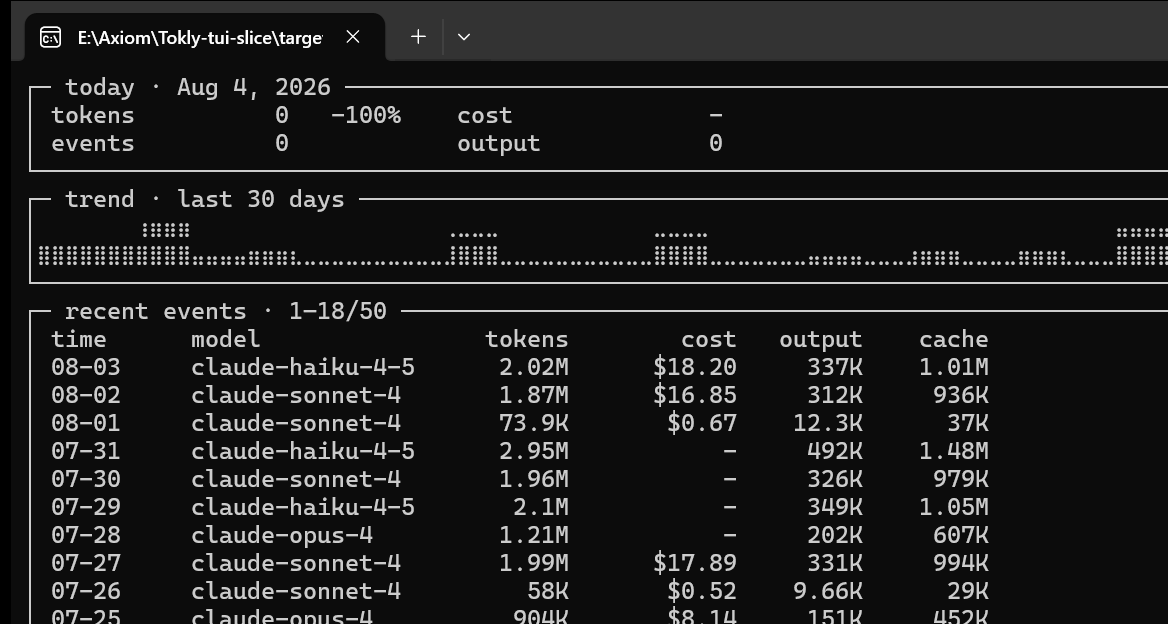
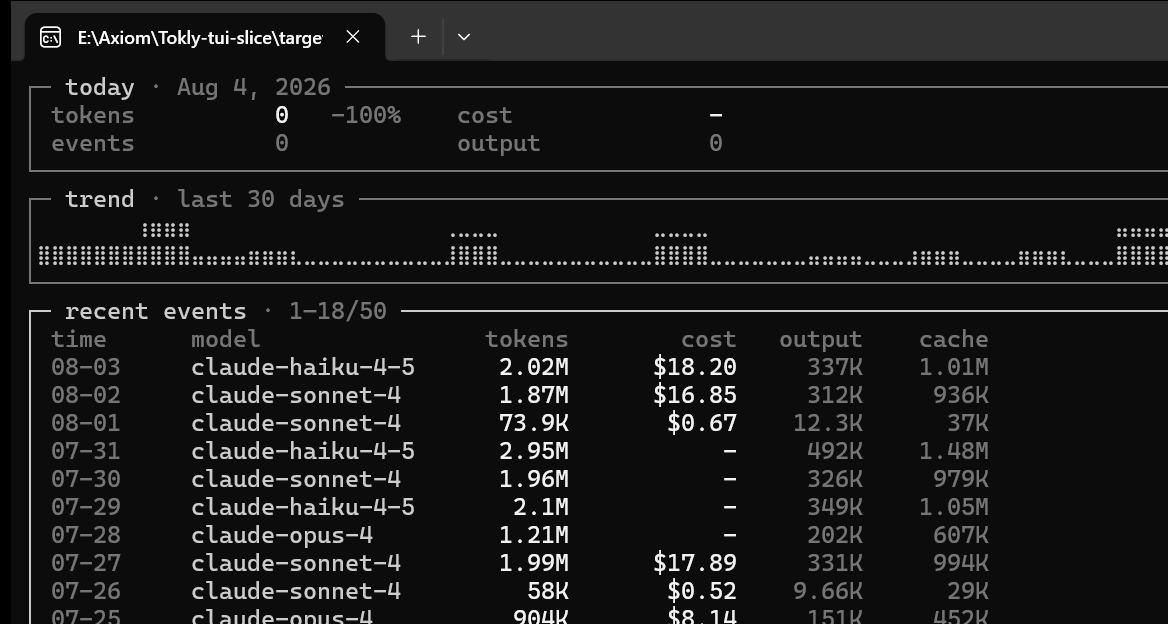
docs: record data gate signoff; M1 unlocked

diff --git a/docs/reports/assets/九/index.html b/docs/reports/assets/九/index.html
@@ -1,0 +1,59 @@
+<!doctype html>
+<html lang="zh-CN">
+<head>
+<meta charset="utf-8">
+<title>阶段九 · TUI 可视化交付物</title>
+<style>
+  body { font-family: ui-monospace, Consolas, monospace; background: #120F0C; color: #EDE6E3; margin: 24px; }
+  h1 { font-size: 16px; } h2 { font-size: 14px; color: #B2ADA9; margin-top: 32px; }
+  p { color: #8A8582; font-size: 13px; max-width: 72em; }
+  .grid { display: grid; grid-template-columns: repeat(auto-fill, minmax(420px, 1fr)); gap: 12px; }
+  figure { margin: 0; border: 1px solid #282522; padding: 8px; }
+  figcaption { font-size: 12px; color: #8A8582; padding: 6px 2px 2px; }
+  img, object { width: 100%; height: auto; display: block; background: #120F0C; }
+  a { color: #E0985A; }
+</style>
+</head>
+<body>
+<h1>阶段九 · TUI 可视化交付物</h1>
+<p>双击本文件即可离线查看。SVG 为 TestBackend 真实渲染缓冲的逐格序列化（字形与各档色值即终端所收内容）；
+conpty/*.png 为 Windows Terminal（ConPTY）真机窗口捕获。三档真机像素实测：truecolor 命中 #E0985A（accent.solid 精确值）、
+256 命中 #D7875F（xterm 173 精确值）、16 档按规格落 white（色相丢失为文档已知损失）。</p>
+
+<h2>录屏 · 交互序列（启动骨架 → 数据 → t 主题 × 2 → Tab 历史 → 80 列 → 60 列 → 摘要行）</h2>
+<div class="grid" style="grid-template-columns: 1fr;">
+  <figure><object type="image/svg+xml" data="svg/session.svg"></object><figcaption>svg/session.svg · 动画自动循环，无需安装任何东西</figcaption></figure>
+</div>
+
+<h2>真机 ConPTY（Windows Terminal · amber-dark · 监控视图）</h2>
+<div class="grid">
+  <figure><img src="conpty/conpty-truecolor.png"><figcaption>truecolor</figcaption></figure>
+  <figure><img src="conpty/conpty-256.png"><figcaption>256</figcaption></figure>
+  <figure><img src="conpty/conpty-16.png"><figcaption>16（accent 落 white，规格已知损失）</figcaption></figure>
+</div>
+
+<h2>矩阵 · amber-dark（宽度 × 色档）</h2>
+<div class="grid">
+  <figure><object type="image/svg+xml" data="svg/amber-dark-monitor-120x36-tc.svg"></object><figcaption>monitor 120 · truecolor</figcaption></figure>
+  <figure><object type="image/svg+xml" data="svg/amber-dark-monitor-120x36-256.svg"></object><figcaption>monitor 120 · 256</figcaption></figure>
+  <figure><object type="image/svg+xml" data="svg/amber-dark-monitor-120x36-16.svg"></object><figcaption>monitor 120 · 16</figcaption></figure>
+  <figure><object type="image/svg+xml" data="svg/amber-dark-monitor-80x24-tc.svg"></object><figcaption>monitor 80 · truecolor</figcaption></figure>
+  <figure><object type="image/svg+xml" data="svg/amber-dark-monitor-60x20-tc.svg"></object><figcaption>monitor 60 · truecolor（列从右整列丢弃）</figcaption></figure>
+  <figure><object type="image/svg+xml" data="svg/amber-dark-history-120x36-tc.svg"></object><figcaption>history 120 · truecolor（braille 热力图）</figcaption></figure>
+  <figure><object type="image/svg+xml" data="svg/amber-dark-history-80x24-tc.svg"></object><figcaption>history 80 · truecolor（mini bar 可见）</figcaption></figure>
+  <figure><object type="image/svg+xml" data="svg/amber-dark-history-60x20-tc.svg"></object><figcaption>history 60 · truecolor</figcaption></figure>
+  <figure><object type="image/svg+xml" data="svg/amber-dark-history-120x36-16.svg"></object><figcaption>history 120 · 16（热力仅靠密度）</figcaption></figure>
+  <figure><object type="image/svg+xml" data="svg/amber-dark-diagnostics-120x24-tc.svg"></object><figcaption>diagnostics（只读降级态）</figcaption></figure>
+</div>
+
+<h2>mono 家族（C=0 纯灰）与浅色配对</h2>
+<div class="grid">
+  <figure><object type="image/svg+xml" data="svg/mono-dark-monitor-120x36-tc.svg"></object><figcaption>mono-dark monitor 120 · truecolor</figcaption></figure>
+  <figure><object type="image/svg+xml" data="svg/mono-dark-history-120x36-tc.svg"></object><figcaption>mono-dark history 120（灰阶明度分档）</figcaption></figure>
+  <figure><object type="image/svg+xml" data="svg/amber-light-monitor-120x36-tc.svg"></object><figcaption>amber-light monitor 120</figcaption></figure>
+  <figure><object type="image/svg+xml" data="svg/paper-light-history-120x36-tc.svg"></object><figcaption>paper-light history 120</figcaption></figure>
+</div>
+
+<p>完整 40 张矩阵在 <a href="svg/">svg/</a> 目录（amber-dark 与 mono-dark 各 3 宽度 × 3 档 × 2 视图）。</p>
+</body>
+</html>

diff --git a/docs/执行计划.md b/docs/执行计划.md
@@ -23,7 +23,7 @@
 | 一 | 工程地基 | workspace + xtask + CI 门禁 + 治理文档 | M0 收尾 | **已完成**（2026-08-03，`fbee54b`/`fbe8972`，[裁决](reports/阶段一-裁决.md)） |
 | 二 | 后端核心 A | 冻结竖切（含七轮验证机构演进：P5/P6/突变自证/契约模型） | M0.5 spike ① | **已完成**（2026-08-04 合入 `02603ec`，[关闭记录](reports/阶段二-关闭.md)） |
 | 三B | 后端核心 A | 冻结收口：六源 golden fixtures + 数据门评审包 | M0.5 冻结物 | **已完成**（2026-08-04 合入 `339f727`，[关闭记录](reports/阶段三B-关闭.md)）；**待维护者签核数据门** |
-| 四 | 后端核心 B | M1 全量：三类水位线、pending_messages、pricing、config、doctor、report | M1 | 待开（高危） |
+| **四** | 后端核心 B | M1 全量：三类水位线、pending_messages、pricing、config、doctor、report | M1 | **当前阶段**（数据门 2026-08-04 已签核；高危 → 对抗复审） |
 | 五 | 设计基座 | tokly-tokens 引擎 + 三产物 + specimen + 设计原则修正 | M1.5 | **已完成**（2026-08-04 合入 `b660db6`，[关闭记录](reports/阶段五-关闭.md)） |
 | **六** | Web 端 A | 进程模型落地：service / server / daemon 锁 / DTO / 鉴权 | M0.5 spike ③（界面门） | **Prompt 就绪待投放**（与三B 并行；Claude 执行 · Codex 对抗复审） |
 | 七 | Web 端 B | Dashboard v1：油表第一带 + 四组件 + 设置 + 首次运行 + 数据健康 + OpenCode 双源 + 动效门禁 | M0.5 spike ② + M2 | 待开 |

diff --git a/docs/路线图.md b/docs/路线图.md
@@ -38,6 +38,8 @@
 ~~三 spike 验收 + 五件冻结 + 评审通过，才准动工 M1。~~
 **2026-08-04 门序修正（按不可逆性拆分）**：冻结门拆为两半——**数据门**（spike ① + DDL 冻结 + 六源 fixtures + 基线/配置面冻结 + 评审）**卡 M1**：M1 是纯数据层，其不可逆面（schema、契约、映射）已全部被数据门覆盖；**界面门**（spike ② React UX + spike ③ 跨端）**卡 M2 的 Dashboard 大规模施工**：它们冻结的是 UI/平台选型，其不可逆性在 M2 才生效。spike ① 已由执行计划阶段二完成（2026-08-04，[阶段二-关闭](reports/阶段二-关闭.md)）。
 
+> **数据门已于 2026-08-04 由维护者签核关闭**（[评审包 §六](research/冻结门评审-数据门-2026-08-04.md)）：五件冻结物到位、spike ① 验收定格、三项签核确认逐项同意。M1 就此解锁。
+
 ## M1 · 核心数据层（第一优先级）
 
 目标：`tokly scan` 把 Claude Code 全部历史导入本地仓库；`tokly report` 出终端汇总表——里程碑可 dogfood 才成立。
